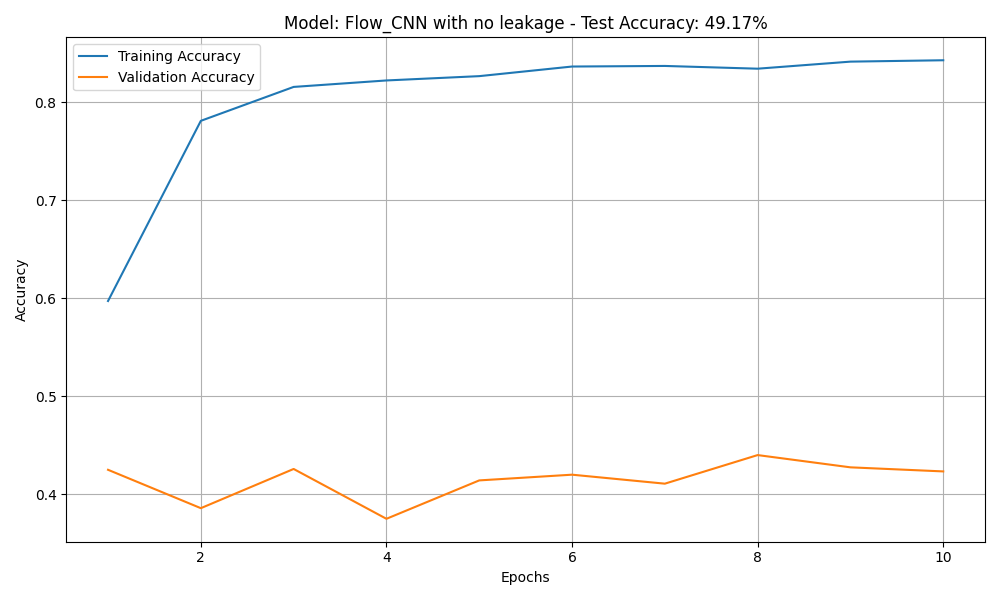
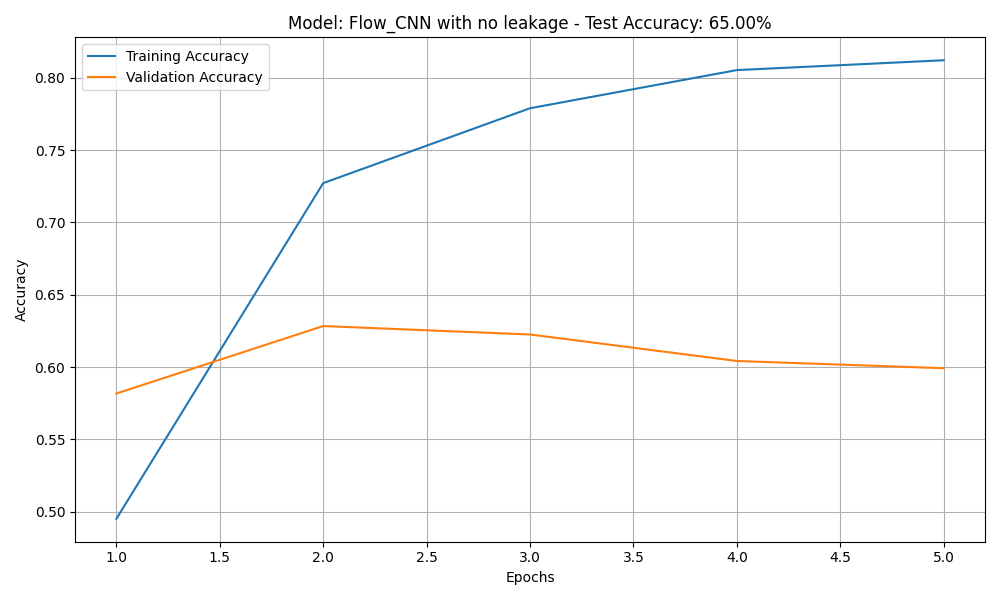
Tested with normalization of Resnet and larger image size

diff --git a/Project_2/main.py b/Project_2/main.py
@@ -53,7 +53,15 @@ def create_dataloaders(args: argparse.Namespace) -> tuple[DataLoader, DataLoader
     For 3D_CNN, we use FrameVideoDataset with stack_frames=True to get [C, T, H, W] per sample.
     For 2D models, we keep training/val on individual frames and test on lists of frames.
     """
-    transform = transforms.Compose([transforms.Resize((args.image_size, args.image_size)), transforms.ToTensor()])
+    imagenet_mean = [0.485, 0.456, 0.406]
+    imagenet_std = [0.229, 0.224, 0.225]
+    transform = transforms.Compose(
+        [
+            transforms.Resize((args.image_size, args.image_size)),
+            transforms.ToTensor(),
+            transforms.Normalize(imagenet_mean, imagenet_std),
+        ]
+    )
 
     root_path = Path(args.root_dir)
     root_path = root_path / "ucf101_noleakage" if args.no_leakage else root_path / "ufc10"
